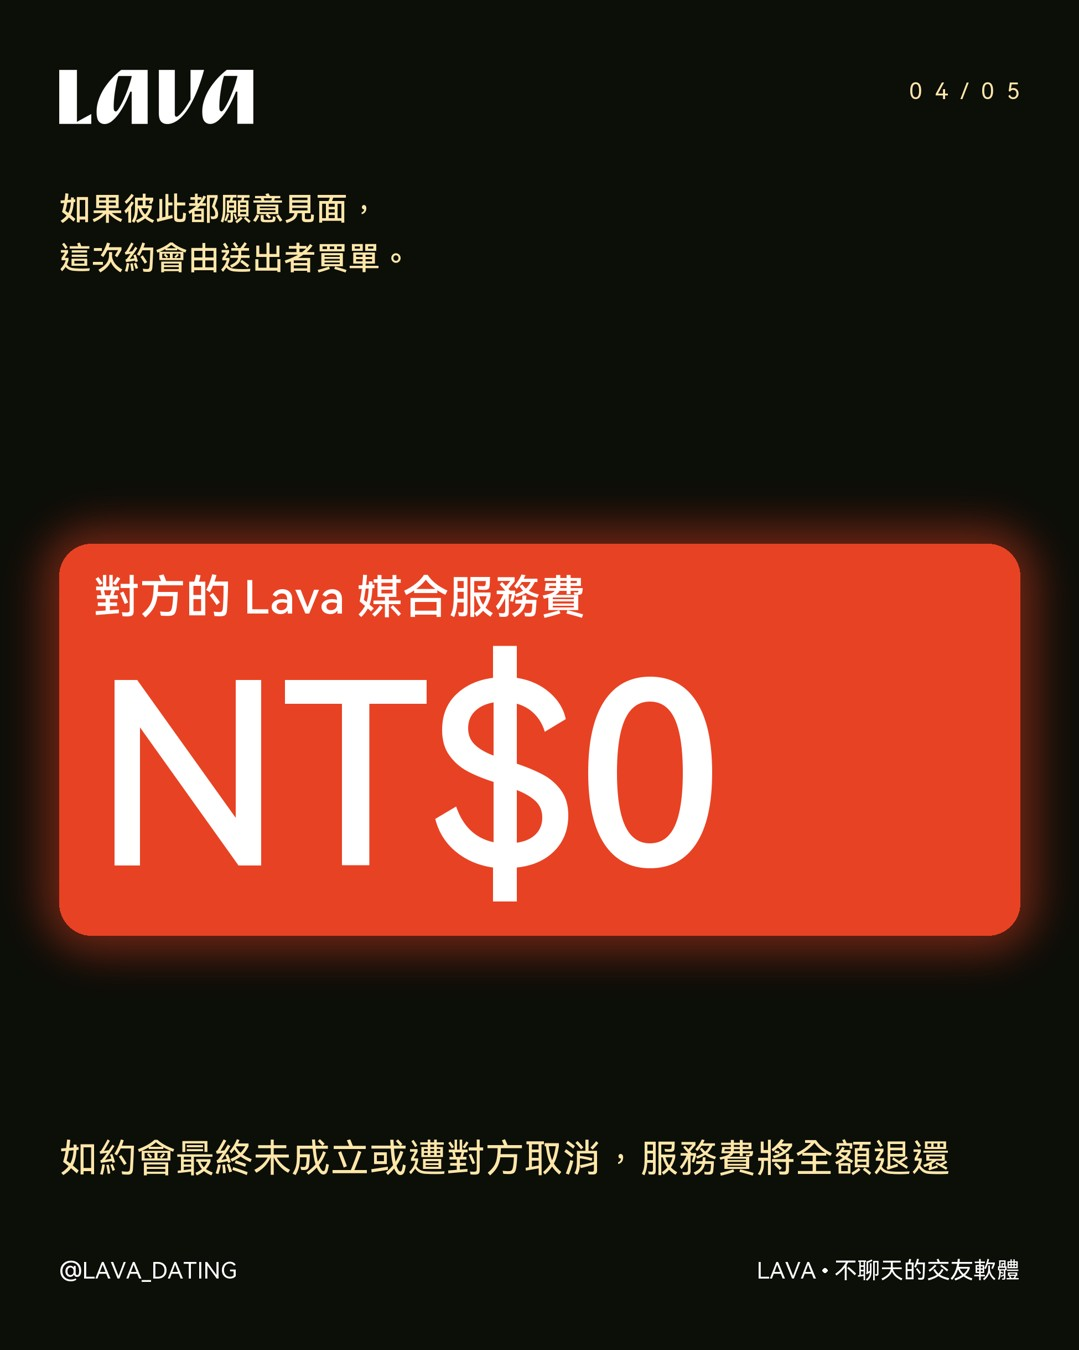
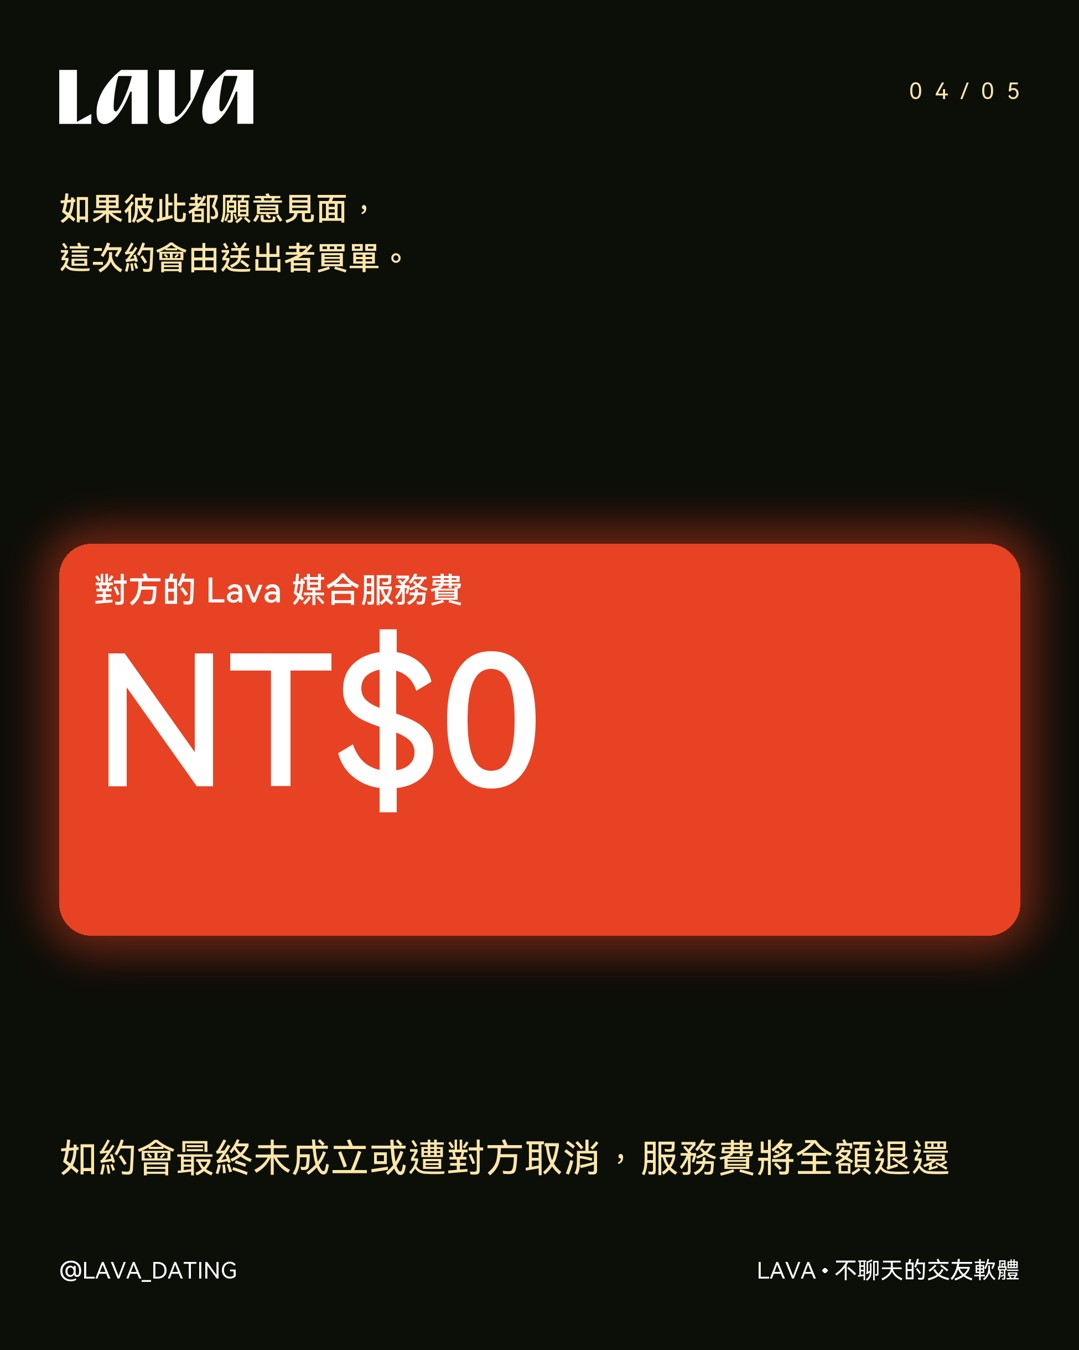
產品版型：價格字級改用墨高校準，尾板拉開間距並建立字重層級
- 價格卡字級改用「量原稿實際墨高、反解字級」得到的值：
  NT$0 0.235→0.168W、標籤 0.043→0.032W。先前用 cap-height 0.72 這個
  經驗值換算，把數字估大了 40%（Jesse 退件：沒對齊規範）
- 尾板 _render_cta：字標→標語、標語→紅線、紅線→導言、導言→重點句
  四段間距各升一階；品牌字型沒有 Bold，標語改用 Medium＋描邊做假粗體，
  導言降到 Regular，讓四段文字有輕重之分
- draw_lead 新增 font_path 參數供呼叫端降字重

Changed region(s): [[0.0918, 0.4044, 0.6728, 0.6844]]

diff --git a/scripts/render_product.py b/scripts/render_product.py
@@ -71,6 +71,12 @@ HERO_ASPECT = 0.75         # 原稿卡框 0.394W × 0.419H → 寬高比 0.75
 HERO_H      = 0.419        # 卡片總高佔 H
 NOTIFY_H    = 0.2325       # 橫幅媒體帶總高佔 H（原稿 3.06:1，舊值 0.205 等於 3.47:1 太扁）
 
+# 價格卡字級：拿原稿的**實際墨高**去反解字級得到的，不是用 cap-height 比例估的。
+# 先前用 0.72 這個經驗值換算，把 NT$0 估成 0.235W，實際大了 40%（Jesse 2026-08-23 退件）。
+# 校準法：在同一支字型下逐級渲染，量 getbbox 高度，取最接近原稿墨高的那級。
+FS_PRICE_LABEL  = 0.032    # 原稿墨高 33px@1080 → 0.032W
+FS_PRICE_AMOUNT = 0.168    # 原稿墨高 183px@1080 → 0.168W
+
 PRODUCT_TPL_ID = "tpl-product-intro-carousel"
 DESIGN_LAYOUTS = ("diagram", "price", "cta")   # 引擎繪製的設計版面，不需要照片
 
@@ -232,13 +238,14 @@ def _lead_color(dark):
     return CREAM if dark else (92, 98, 76)
 
 
-def draw_lead(d, text, dark, y):
+def draw_lead(d, text, dark, y, font_path=None):
     """上方導言：兩三行小字。行尾標點同 title_lines 的規則——
-    作者手打的斷行保留，寬度造成的斷行才清。"""
+    作者手打的斷行保留，寬度造成的斷行才清。
+    font_path 讓呼叫端降字重（尾板要用 Regular 才拉得開層級）。"""
     if not (text or "").strip():
         return y
     col = _lead_color(dark)
-    fs = int(W * LEAD_FS); f = ImageFont.truetype(E.F_MED, fs)
+    fs = int(W * LEAD_FS); f = ImageFont.truetype(font_path or E.F_MED, fs)
     lh = int(fs * 1.55); max_w = int(W * 0.62)
     lines = []
     for para in [x for x in text.split("\n") if x.strip()]:
@@ -399,14 +406,14 @@ def lay_price(img, d, slide, shot, dark, band):
     px = bx0 + int(W * 0.032)
     lab = (slide.get("price_label") or "").strip()
     amt = (slide.get("price_amount") or "").strip()
-    fs_lab = int(W * 0.043)                          # 原稿實測（舊值 0.030 偏小）
+    fs_lab = int(W * FS_PRICE_LABEL)
     inner = by0 + S_SM
     if lab:
         f = ImageFont.truetype(E.F_MED, fs_lab)
         d.text((px, inner), lab, font=f, fill=WHITE)
         inner += fs_lab + S_XS
     if amt:
-        fs = int(W * 0.235)                          # 原稿實測字高約舊值的兩倍
+        fs = int(W * FS_PRICE_AMOUNT)
         while fs > int(W * 0.05):
             f = ImageFont.truetype(E.F_MED, fs)
             if (d.textlength(amt, font=f) <= (bx1 - bx0) - 2*int(W*0.032)
@@ -460,21 +467,28 @@ def _pill(d, text, x, y, dark):
 
 
 def _render_cta(slide, out_path, dark=True):
-    """尾板：徽章 → 字標 → 標語 → 紅線 → 導言 → 重點句 → 按鈕，全部走間距階梯。"""
+    """尾板：徽章 → 字標 → 標語 → 紅線 → 導言 → 重點句 → 按鈕，全部走間距階梯。
+
+    字重層級：品牌字型只有 Thin／Regular／Medium 三個字重，沒有 Bold。
+    尾板原本整版都用 Medium，於是四段文字看起來一樣重，讀者不知道先看哪一句
+    （Jesse 2026-08-23：字重沒有層級，看起來很吃力）。做法是兩端拉開——
+    標語用 Medium＋描邊做假粗體，導言降到 Regular，中間留給 Medium。
+    """
     img = _bg(dark); d = ImageDraw.Draw(img)
     img, d = lay_cta(img, d, slide, None, dark)
     y = BADGE_BOTTOM[0] + S_XL
     lg = Image.open(E.LOGO if dark else E.LOGO.replace("white", "black")).convert("RGBA")
     lw = int(W * 0.42); lg = lg.resize((lw, int(lg.height * lw / lg.width)))
     img.paste(lg, (int(W * MX), y), lg); d = ImageDraw.Draw(img)
-    y += lg.height + S_SM                    # 原本 S_XS，字標與標語黏太緊（Jesse 2026-08-23）
+    y += lg.height + S_MD
     fs_tag = int(W * 0.062)
     d.text((int(W * MX), y), (slide.get("tagline") or "讓社交回歸線下"),
-           font=ImageFont.truetype(E.F_MED, fs_tag), fill=_fg(dark))
-    y += int(fs_tag * 1.25) + S_MD
+           font=ImageFont.truetype(E.F_MED, fs_tag), fill=_fg(dark),
+           stroke_width=max(1, int(fs_tag * 0.022)), stroke_fill=_fg(dark))
+    y += int(fs_tag * 1.25) + S_LG
     d.line([(int(W*MX), y), (int(W*MX) + int(W*0.075), y)], fill=RED, width=int(H*0.004))
-    y += S_MD
-    y = draw_lead(d, slide.get("display_copy") or "", dark, y) + S_MD
+    y += S_LG
+    y = draw_lead(d, slide.get("display_copy") or "", dark, y, font_path=E.F_REG) + S_LG
     hl = re.sub(r"[【】〖〗]", "", (slide.get("heading") or "").strip())
     if hl:
         fs_h = int(W * 0.052)
